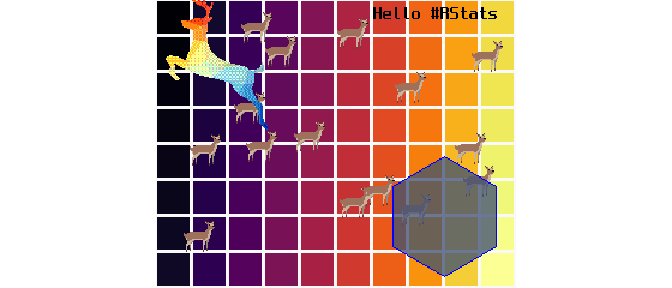
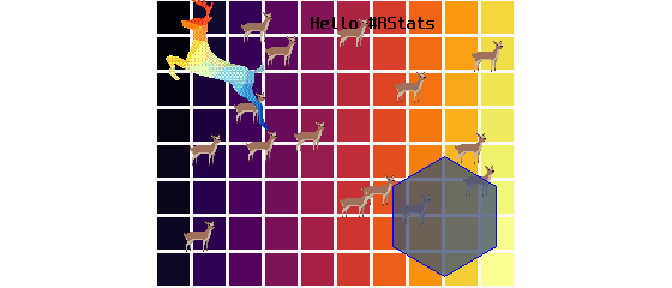
add hjust/vjust to text.

Changed region(s): [[0.4375, 0.0, 0.75, 0.125]]

diff --git a/src/nr-draw-text.c b/src/nr-draw-text.c
@@ -31,7 +31,9 @@
 // @param fontsize fontsize
 //~~~~~~~~~~~~~~~~~~~~~~~~~~~~~~~~~~~~~~~~~~~~~~~~~~~~~~~~~~~~~~~~~~~~~~~~~~~~
 #include "fonts.h"
-void nr_text_basic(uint32_t *nr, int nr_width, int nr_height, int x, int y, const char *str, uint32_t color, int fontsize,
+void nr_text_mono(uint32_t *nr, int nr_width, int nr_height, int x, int y, 
+                   const char *str, uint32_t color, int fontsize,
+                   double hjust, double vjust,
                    bool use_alpha) {
   
   
@@ -52,10 +54,21 @@ void nr_text_basic(uint32_t *nr, int nr_width, int nr_height, int x, int y, cons
     char_h = 12;
   }
   
+  
+  //~~~~~~~~~~~~~~~~~~~~~~~~~~~~~~~~~~~~~~~~~~~~~~~~~~~~~~~~~~~~~~~~~~~~~~~~~~~
+  // hjust
+  //~~~~~~~~~~~~~~~~~~~~~~~~~~~~~~~~~~~~~~~~~~~~~~~~~~~~~~~~~~~~~~~~~~~~~~~~~~~
+  int nchars = (int)strlen(str);
+  int str_width  = char_w * nchars;
+  int str_height = char_h;
+  
+  x -= (int)(hjust * str_width);
+  y += (int)(vjust * str_height);
+  
+  
   //~~~~~~~~~~~~~~~~~~~~~~~~~~~~~~~~~~~~~~~~~~~~~~~~~~~~~~~~~~~~~~~~~~~~~~~~~~
   // Loop over letters
   //~~~~~~~~~~~~~~~~~~~~~~~~~~~~~~~~~~~~~~~~~~~~~~~~~~~~~~~~~~~~~~~~~~~~~~~~~~
-  int nchars = (int)strlen(str);
   int col = 0;
   
   for (int char_idx = 0; char_idx < nchars; char_idx++) {
@@ -92,7 +105,8 @@ void nr_text_basic(uint32_t *nr, int nr_width, int nr_height, int x, int y, cons
 // @param color color
 // @param fontsize fontsize
 //~~~~~~~~~~~~~~~~~~~~~~~~~~~~~~~~~~~~~~~~~~~~~~~~~~~~~~~~~~~~~~~~~~~~~~~~~~~~
-SEXP nr_text_basic_(SEXP nr_, SEXP x_, SEXP y_, SEXP str_, SEXP color_, SEXP fontsize_, SEXP use_alpha_) {
+SEXP nr_text_mono_(SEXP nr_, SEXP x_, SEXP y_, SEXP str_, SEXP color_, SEXP fontsize_, 
+                    SEXP hjust_, SEXP vjust_, SEXP use_alpha_) {
 
   //~~~~~~~~~~~~~~~~~~~~~~~~~~~~~~~~~~~~~~~~~~~~~~~~~~~~~~~~~~~~~~~~~~~~~~~~~~
   // Unpack args
@@ -108,13 +122,16 @@ SEXP nr_text_basic_(SEXP nr_, SEXP x_, SEXP y_, SEXP str_, SEXP color_, SEXP fon
 
   const char *str = CHAR(Rf_asChar(str_));
   
+  double hjust = Rf_asReal(hjust_);
+  double vjust = Rf_asReal(vjust_);
+  
   bool use_alpha = (bool)Rf_asLogical(use_alpha_);
 
   //~~~~~~~~~~~~~~~~~~~~~~~~~~~~~~~~~~~~~~~~~~~~~~~~~~~~~~~~~~~~~~~~~~~~~~~~~~
   // Choose font
   //~~~~~~~~~~~~~~~~~~~~~~~~~~~~~~~~~~~~~~~~~~~~~~~~~~~~~~~~~~~~~~~~~~~~~~~~~~
   int fontsize = Rf_asInteger(fontsize_);
-  nr_text_basic(nr, nr_width, nr_height, x, y, str, color, fontsize, use_alpha);
+  nr_text_mono(nr, nr_width, nr_height, x, y, str, color, fontsize, hjust, vjust, use_alpha);
 
   
   return nr_;

diff --git a/src/init.c b/src/init.c
@@ -48,7 +48,7 @@ extern SEXP nr_blit_(SEXP dst_, SEXP x_, SEXP y_,
                      SEXP angle_, SEXP sf_,
                      SEXP use_alpha_);
 
-extern SEXP nr_blit_bulk_(SEXP dst_, SEXP src_, SEXP config_);
+extern SEXP nr_blit_multi_(SEXP dst_, SEXP src_, SEXP config_);
 
 //~~~~~~~~~~~~~~~~~~~~~~~~~~~~~~~~~~~~~~~~~~~~~~~~~~~~~~~~~~~~~~~~~~~~~~~~~~~
 // Conversion
@@ -69,7 +69,7 @@ extern SEXP magick_to_nr_(SEXP im_, SEXP dst_);
 //~~~~~~~~~~~~~~~~~~~~~~~~~~~~~~~~~~~~~~~~~~~~~~~~~~~~~~~~~~~~~~~~~~~~~~~~~~~
 extern SEXP nr_point_   (SEXP nr_, SEXP x_ , SEXP y_                               , SEXP color_, SEXP use_alpha_);
 extern SEXP nr_line_    (SEXP nr_, SEXP x1_, SEXP y1_, SEXP x2_, SEXP y2_          , SEXP color_, SEXP linewidth_, SEXP use_alpha_);
-extern SEXP nr_text_basic_  (SEXP nr_, SEXP x_ , SEXP y_ , SEXP str_                   , SEXP color_, SEXP fontsize_, SEXP use_alpha_);
+extern SEXP nr_text_mono_  (SEXP nr_, SEXP x_ , SEXP y_ , SEXP str_                   , SEXP color_, SEXP fontsize_, SEXP hjust_, SEXP vjust_, SEXP use_alpha_);
 extern SEXP nr_rect_    (SEXP nr_, SEXP x_ , SEXP y_ , SEXP w_, SEXP h_, SEXP nr_fill_, SEXP color_, SEXP hjust_, SEXP vjust_, SEXP linewidth_, SEXP use_alpha_);
 extern SEXP nr_circle_  (SEXP nr_, SEXP x_ , SEXP y_ , SEXP r_         , SEXP nr_fill_, SEXP color_, SEXP use_alpha_);
 extern SEXP nr_polyline_(SEXP nr_, SEXP x_ , SEXP y_, SEXP color_, SEXP linewidth_, SEXP mitre_limit_, SEXP close_, SEXP draw_line_);
@@ -115,7 +115,7 @@ static const R_CallMethodDef CEntries[] = {
   {"nr_blit_ortho_"   , (DL_FUNC) &nr_blit_ortho_   , 11}, // subsumed into 'nr_blit_'
   {"nr_blit_rotozoom_", (DL_FUNC) &nr_blit_rotozoom_, 13}, // subsumed into 'nr_blit_'
   {"nr_blit_"         , (DL_FUNC) &nr_blit_         , 13},
-  {"nr_blit_bulk_"    , (DL_FUNC) &nr_blit_bulk_    ,  3},
+  {"nr_blit_multi_"    , (DL_FUNC) &nr_blit_multi_    ,  3},
   
   {"matrix_to_nr_", (DL_FUNC) &matrix_to_nr_  , 6},
   
@@ -129,7 +129,7 @@ static const R_CallMethodDef CEntries[] = {
 
   {"nr_point_"         , (DL_FUNC) &nr_point_         , 5},
   {"nr_line_"          , (DL_FUNC) &nr_line_          , 8},
-  {"nr_text_basic_"    , (DL_FUNC) &nr_text_basic_    , 7},
+  {"nr_text_mono_"    , (DL_FUNC) &nr_text_mono_    , 9},
   {"nr_rect_"          , (DL_FUNC) &nr_rect_          , 11},
   {"nr_circle_"        , (DL_FUNC) &nr_circle_        , 7},
   {"nr_polyline_"      , (DL_FUNC) &nr_polyline_      , 8},

diff --git a/src/nr-color.c b/src/nr-color.c
@@ -36,10 +36,10 @@ SEXP nr_desaturate_(SEXP nr_, SEXP factor_) {
       double grey = (0.299 * (double)p[0] + 0.587 * (double)p[1] + 0.114 * (double)p[2]) ;
       
       // Move all color channels towards this grey level
-      p[0] += (uint8_t)trunc( (grey - (double)p[0]) * factor);
-      p[1] += (uint8_t)trunc( (grey - (double)p[1]) * factor);
-      p[2] += (uint8_t)trunc( (grey - (double)p[2]) * factor);
-      
+      p[0] += (int8_t)trunc( (grey - (double)p[0]) * factor);
+      p[1] += (int8_t)trunc( (grey - (double)p[1]) * factor);
+      p[2] += (int8_t)trunc( (grey - (double)p[2]) * factor);
+
       p += 4;
     }
   }

diff --git a/inst/include/private/nara.h b/inst/include/private/nara.h
@@ -123,11 +123,11 @@ static inline void nr_rect (uint32_t *nr, int nr_width, int nr_height, int x , i
 }
 
 
-static inline void nr_text_basic(uint32_t *nr, int nr_width, int nr_height, int x , int y , const char *str, uint32_t color, int fontsize, bool use_alpha) {
+static inline void nr_text_mono(uint32_t *nr, int nr_width, int nr_height, int x , int y , const char *str, uint32_t color, int fontsize, bool use_alpha) {
   static void (*fun)(uint32_t *nr, int nr_width, int nr_height, int x , int y , const char *str, uint32_t color, int fontsize, bool use_alpha) = NULL;
 
   if (fun == NULL) {
-    fun = (void (*)(uint32_t *nr, int nr_width, int nr_height, int x , int y , const char *str, uint32_t color, int fontsize, bool use_alpha)) R_GetCCallable("nara", "nr_text_basic");
+    fun = (void (*)(uint32_t *nr, int nr_width, int nr_height, int x , int y , const char *str, uint32_t color, int fontsize, bool use_alpha)) R_GetCCallable("nara", "nr_text_mono");
   }
 
   fun(nr, nr_width, nr_height, x, y, str, color, fontsize, use_alpha);

diff --git a/src/init-decls.h b/src/init-decls.h
@@ -11,5 +11,5 @@ extern void nr_point     (uint32_t *nr, int nr_width, int nr_height, int x , int
 extern void nr_polygon   (uint32_t *nr, int nr_width, int nr_height, int *x, int *y, int npoints, uint32_t fill, uint32_t color, double linewidth, double mitre_limit, bool use_alpha);
 extern void nr_polyline  (uint32_t *nr, int nr_width, int nr_height, int *x, int *y, int npoints, uint32_t color, double linewidth, double mitre_limit, bool close, bool use_alpha);
 extern void nr_rect      (uint32_t *nr, int nr_width, int nr_height, int x , int y , int w, int h, uint32_t fill, uint32_t color, double hjust, double vjust, double linewidth, bool use_alpha);
-extern void nr_text_basic(uint32_t *nr, int nr_width, int nr_height, int x , int y , const char *str, uint32_t color, int fontsize, bool use_alpha);
+extern void nr_text_mono(uint32_t *nr, int nr_width, int nr_height, int x , int y , const char *str, uint32_t color, int fontsize, bool use_alpha);
 extern void nr_blit(uint32_t *dst, int dst_width, int dst_height, int x, int y, uint32_t *src, int src_width, int src_height, int xsrc, int ysrc, int w, int h, double hjust, double vjust, double angle, double scale, bool use_alpha); 

diff --git a/src/init-register.h b/src/init-register.h
@@ -8,5 +8,5 @@ R_RegisterCCallable("nara", "nr_point"   , (DL_FUNC) &nr_point);
 R_RegisterCCallable("nara", "nr_polygon"   , (DL_FUNC) &nr_polygon);
 R_RegisterCCallable("nara", "nr_polyline"   , (DL_FUNC) &nr_polyline);
 R_RegisterCCallable("nara", "nr_rect"   , (DL_FUNC) &nr_rect);
-R_RegisterCCallable("nara", "nr_text_basic"   , (DL_FUNC) &nr_text_basic);
+R_RegisterCCallable("nara", "nr_text_mono"   , (DL_FUNC) &nr_text_mono);
 R_RegisterCCallable("nara", "nr_blit"   , (DL_FUNC) &nr_blit);

diff --git a/src/nr-blit.c b/src/nr-blit.c
@@ -114,7 +114,7 @@ SEXP nr_blit_(SEXP dst_, SEXP x_, SEXP y_,
 //~~~~~~~~~~~~~~~~~~~~~~~~~~~~~~~~~~~~~~~~~~~~~~~~~~~~~~~~~~~~~~~~~~~~~~~~~~~
 // 
 //~~~~~~~~~~~~~~~~~~~~~~~~~~~~~~~~~~~~~~~~~~~~~~~~~~~~~~~~~~~~~~~~~~~~~~~~~~~
-SEXP nr_blit_bulk_(SEXP dst_, SEXP src_, SEXP config_) {
+SEXP nr_blit_multi_(SEXP dst_, SEXP src_, SEXP config_) {
   
   //~~~~~~~~~~~~~~~~~~~~~~~~~~~~~~~~~~~~~~~~~~~~~~~~~~~~~~~~~~~~~~~~~~~~~~~~~~~
   // Check arguments are of correct type

diff --git a/src/nr-draw.h b/src/nr-draw.h
@@ -6,5 +6,5 @@ void nr_point     (uint32_t *nr, int nr_width, int nr_height, int x , int y , ui
 void nr_polygon   (uint32_t *nr, int nr_width, int nr_height, int *x, int *y, int npoints, uint32_t fill, uint32_t color, double linewidth, double mitre_limit, bool use_alpha);
 void nr_polyline  (uint32_t *nr, int nr_width, int nr_height, int *x, int *y, int npoints, uint32_t color, double linewidth, double mitre_limit, bool close, bool use_alpha);
 void nr_rect      (uint32_t *nr, int nr_width, int nr_height, int x , int y , int w, int h, uint32_t fill, uint32_t color, double hjust, double vjust, double linewidth, bool use_alpha);
-void nr_text_basic(uint32_t *nr, int nr_width, int nr_height, int x , int y , const char *str, uint32_t color, int fontsize, bool use_alpha);
+void nr_text_mono(uint32_t *nr, int nr_width, int nr_height, int x , int y , const char *str, uint32_t color, int fontsize, double hjust, double vjust, bool use_alpha);
 

diff --git a/NEWS.md b/NEWS.md
@@ -1,67 +1,7 @@
 
-# nara 0.1.1.9040 2026-05-02
+# nara 1.0.0 2026-05-13
 
-* [9041] `draw_mode` removed in favour of `use_alpha` as XOR drawing - which
-         is required for AnotherWorld rendering - is no longer supported.
-* [9041] Tidy `nr_desaturate()`
-* [9040] Add triangle drawing `nr_tri_mesh()`, `nr_tri_coords()`
-* [9039] Tidy.  Rename `nr_duplicate()` to `nr_copy()`
-* [9038] Color reduction: `nr_dither()`, `nr_desaturate()`, 
-         `nr_threshold()`
-* [9037] Masked rendering
-* [9036] ignore transparency if !use_alpha
-* [9035] C API Redux
-* [9034] can now select drawing mode on all drawing ops: "respect_alpha" or "ignore_alpha"
-* [9033] most line drawing operations now take a `linewidth` argument
-* [9032] `nr_copy_into()` now supports a mask
-* [9031] merged blit-ortho and blit-rotozoom.
-* [9030] rotozoom and blit are moving towards the same interface
-* [9029] Refactor draw commands. Argument ordering is now always (x, y), (w, h) in both C and R
-* [9028] Add `nr_blit_rotozoom()`
-* [9027] Add `nr_blit_bulk()`
-* [9027] Blit refactor - remove `nr_blit_list()`, `nr_blit_grid()`
-* [9026] Use `{colorfast}` for color conversion
-* Remove 'isocubes()'
-* Remove 'op' argument. 
-* Standardise argument ordering
-* Remove 'dino' sprites
-* Add 'deer' spritesheet and isometric landscape tiles
-* `str_cols_to_packed_cols()` for `transparent` and `NA_character` now returns value
-  equivalent to `#ffffff00`
-* Add
-    * `nr_crop()`
-    * `nr_flipv()`
-    * `nr_fliph()`
-    * `matrix_to_nr()`
-* Refactored color conversion routines. 
-* Fast conversions in C
-    * `array_to_nr()`
-    * `nr_to_array()`
-    * `raster_to_nr()`
-    * `nr_to_raster()`
-    * `magick_to_nr()`, `nr_to_magick()`
-* Optimized blitting operations in C
-* Added `blit3()` and `blit4()` mega-blitters
-* Fixed(?) off-by-one bug in blitter core
-* Drop inspection of "channels" attribute all together.
-* As of 0.1.1.9009 2024-06-08 coordinate system is now (0, 0) at top-left
-* Fixed rendering of borders for rectangles when both color and fill are 
-  translucent.
-* Rationalize 'blit' methods (still need C implementations)
-* Move all 'magick' related functions into single R file.  Include gif and mp4 output.
-* Use fast hashed lookup for R color names like 'red', 'blue', etc
-* Handle logical NAs as transparent color
-* pass through more arguments for `nrs_to_gif()` and `nrs_to_mp4()`
-* `hjust` and `vjust` added for 
-    * `nr_blit()`
-    * `nr_rect()`
-* added `nr_blit_list()` and `nr_blit_grid()`.
-* added `nr_resize_nn()` and `nr_resize_bilinear()`. `nr_scale()` is now a wrapper around `nr_resize_nn()`
-* Fixed bug in polygon rendering
-* Parse image sequences from `magick` into native raster images
-* Export C functions for use in other packages via `LinkingTo`
-    * draw points
-* Enhanced `nr_polygon()` to process multiple polygons in a single call
+* Completed internal refactor 
 
 # nara 0.1.1 2022-07-30
 

diff --git a/README.md b/README.md
@@ -42,7 +42,7 @@ applications.
 - Selection and Combination
   - `nr_copy()`, `nr_copy_into()`
   - `nr_crop()`
-  - `nr_blit()`, `nr_blit_bulk()`
+  - `nr_blit()`, `nr_blit_multi()`
   - `nr_transpose()`, `nr_rotate()`
   - `nr_resize()`, `nr_scale()`
 - Color manipulation
@@ -51,7 +51,7 @@ applications.
 - Sample images
   - `deer` 16 frames of an animated deer character
   - `tileset` and `tileset_config` for demonstrating tile sets and
-    `nr_blit_bulk()`
+    `nr_blit_multi()`
 
 Reading and writing native raster images is supported by `{jpeg}`,
 `{png}`, and `{fastpng}` packages.
@@ -133,7 +133,7 @@ nr_polygon(nr, x = x, y = y, fill = '#556688c0', color = 'blue')
 #~~~~~~~~~~~~~~~~~~~~~~~~~~~~~~~~~~~~~~~~~~~~~~~~~~~~~~~~~~~~~~~~~~~~~~~~~~~~~
 # Add text to the image
 #~~~~~~~~~~~~~~~~~~~~~~~~~~~~~~~~~~~~~~~~~~~~~~~~~~~~~~~~~~~~~~~~~~~~~~~~~~~~~
-nr_text_basic(nr, x = 180, y = 20, str = "Hello #RStats", fontsize = 16)
+nr_text_mono(nr, x = 180, y = 20, str = "Hello #RStats", fontsize = 16)
 
 #~~~~~~~~~~~~~~~~~~~~~~~~~~~~~~~~~~~~~~~~~~~~~~~~~~~~~~~~~~~~~~~~~~~~~~~~~~~~~
 # Copy image to the device
@@ -261,7 +261,7 @@ for (frame in 1:1000) {
 
 <img src="man/figures/multiball.gif" />
 
-## Technical bits
+## Technical notes
 
 ### What is a native raster image and why is it fast?
 